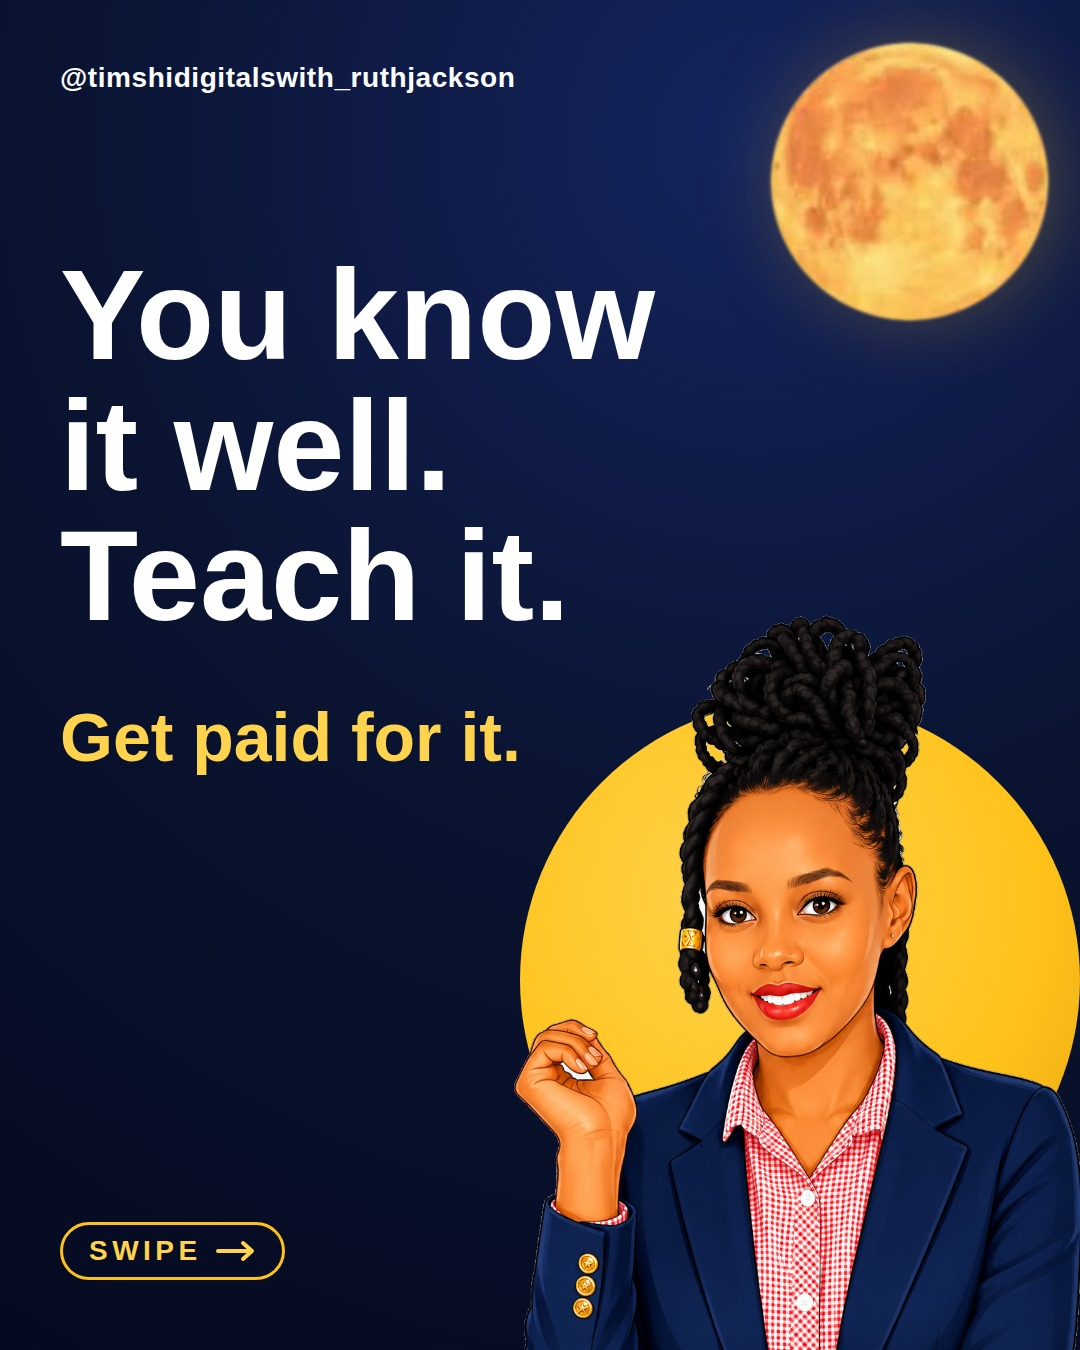
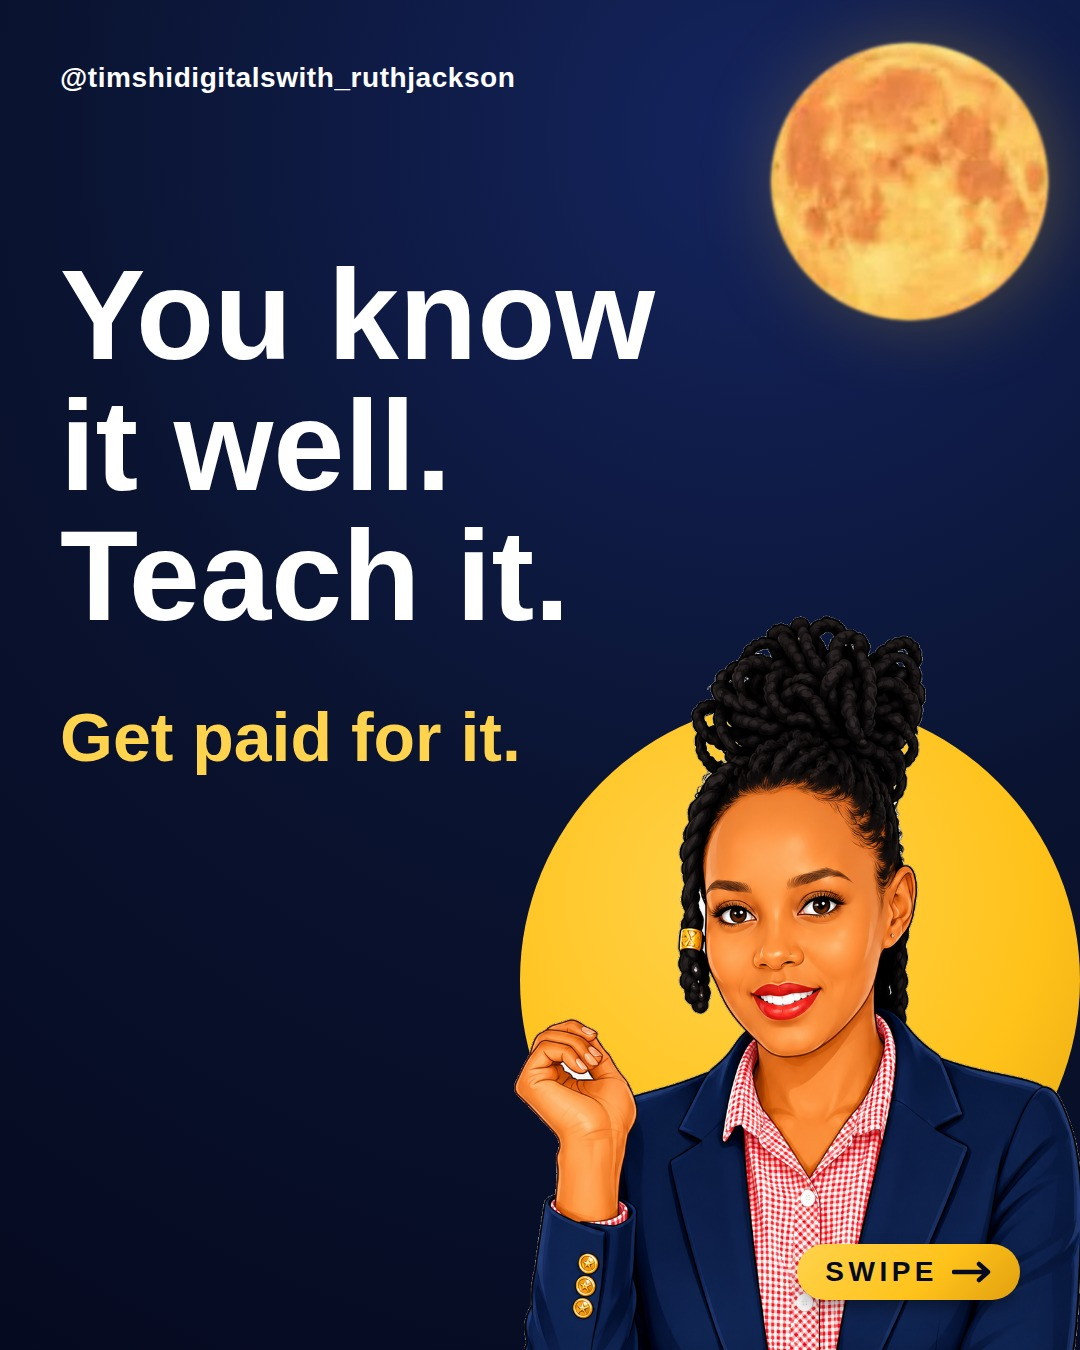
Cover swipe cue: gold-filled pill with navy arrow at bottom-right
Claude-Session: https://claude.ai/code/session_01BuedDNHZYcRoXDUMnpxN87

Changed region(s): [[0.7333, 0.9022, 0.9472, 0.9956], [0.0611, 0.9022, 0.275, 0.9644]]

diff --git a/social/carousel-kit/build.js b/social/carousel-kit/build.js
@@ -13,10 +13,11 @@ const base = `*{box-sizing:border-box;margin:0}body{width:1080px;height:1350px;p
 const moon = (size, top, right) => `<div class="abs" style="top:${top + size * .19}px;right:${right + size * .16}px;width:${size * .62}px;height:${size * .62}px;border-radius:50%;box-shadow:0 0 ${size * .3}px ${size * .13}px rgba(255,194,26,.35)"></div><img class="abs" src="${MOON}" style="top:${top}px;right:${right}px;width:${size}px;height:${size}px">`;
 const ruth = (w, left, top, disc) => `<div class="disc" style="width:${disc}px;height:${disc}px;left:${left + 40}px;top:${top + 90}px"></div><img class="abs" src="${PIC}" style="width:${w}px;left:${left}px;top:${top}px">`;
 const swipe = b => `<div class="abs" style="left:60px;bottom:${b}px;display:flex;align-items:center;gap:14px;border:3px solid #ffc21a;border-radius:40px;padding:10px 26px;font-size:28px;font-weight:800;letter-spacing:.16em;color:#ffd34d">SWIPE<svg width="40" height="22" viewBox="0 0 40 22"><path d="M2 11h34M27 3l9 8-9 8" stroke="#ffd34d" stroke-width="4" fill="none" stroke-linecap="round" stroke-linejoin="round"/></svg></div>`;
+const swipeGold = b => `<div class="abs" style="right:60px;bottom:${b}px;display:flex;align-items:center;gap:14px;background:linear-gradient(135deg,#ffd34d,#ffc21a 60%,#e0a010);border-radius:40px;padding:12px 28px;font-size:28px;font-weight:900;letter-spacing:.16em;color:#050a20;box-shadow:0 10px 24px -8px rgba(0,0,0,.6)">SWIPE<svg width="40" height="22" viewBox="0 0 40 22"><path d="M2 11h34M27 3l9 8-9 8" stroke="#050a20" stroke-width="4.5" fill="none" stroke-linecap="round" stroke-linejoin="round"/></svg></div>`;
 const swipeSm = () => `<div class="abs" style="right:60px;bottom:22px;display:flex;align-items:center;gap:10px;background:linear-gradient(135deg,#ffd34d,#ffc21a 60%,#e0a010);border-radius:30px;padding:7px 20px;font-size:20px;font-weight:900;letter-spacing:.14em;color:#050a20;box-shadow:0 8px 20px -8px rgba(255,194,26,.7)">SWIPE<svg width="28" height="16" viewBox="0 0 40 22"><path d="M2 11h34M27 3l9 8-9 8" stroke="#050a20" stroke-width="4.5" fill="none" stroke-linecap="round" stroke-linejoin="round"/></svg></div>`;
 const cover = () => `<style>${base}</style><div class="handle">${HANDLE}</div>${moon(290, 36, 26)}
 <div class="abs" style="top:250px;left:60px;width:700px;white-space:nowrap;font-size:128px;line-height:1.02;font-weight:900">${T.hook.join('<br>')}</div>
-<div class="abs g" style="top:700px;left:60px;width:520px;font-size:68px;line-height:1.1;font-weight:800">${T.gold}</div>${ruth(640, 480, 610, 560)}${swipe(70)}`;
+<div class="abs g" style="top:700px;left:60px;width:520px;font-size:68px;line-height:1.1;font-weight:800">${T.gold}</div>${ruth(640, 480, 610, 560)}${swipeGold(50)}`;
 const tip = i => { const [h, t] = T.tips[i]; return `<style>${base}</style><div class="handle">${HANDLE}</div>${moon(210, 40, 36)}
 <div class="abs" style="top:260px;left:60px;width:150px;height:150px;border-radius:50%;background:#ffc21a;color:#050a20;display:grid;place-items:center;font-size:88px;font-weight:800;box-shadow:0 14px 34px -10px rgba(255,194,26,.7)">${i + 1}</div>
 <div class="abs" style="top:450px;left:60px;width:640px;font-size:92px;line-height:1.04;font-weight:900">${h}</div>

diff --git a/social/carousel-kit/STYLE-GUIDE.md b/social/carousel-kit/STYLE-GUIDE.md
@@ -14,7 +14,7 @@ Build a 7-slide carousel, 1080x1350 JPG, for the topic: <TOPIC>. Use Ruth's desi
 - Slides 2 to 5 (tips): gold circle with the navy number, tip title in big white bold, explanation in bold gold addressed to the viewer ("you"), four small progress dots bottom-left.
 - Slide 6 (call to action): "You can learn this with Ruth." in white, the course name in gold, a green "WhatsApp" button (label only, no number), then small white lines for TikTok, Instagram, Facebook and coachruthjackson.com.
 - Slide 7 (engagement): "Enjoyed this?" in white and "Do these 3 things:" in gold, then three full-width navy cards. Card 1: Ruth's avatar, "Follow" and a gold "+ Follow" button with a tap cursor. Card 2: "Save for later" with an action bar (heart, comment, share) and a glowing gold bookmark being tapped. Card 3: "Share with a friend" with friend avatars and a gold send button. Handle and moon stay; with a small gold-filled "SWIPE →" pill (navy text and arrow) at the bottom-right.
-- Swipe cue: slides 1 to 6 have a small gold outlined "SWIPE →" pill at the bottom-left (above the progress dots on tip slides). Slide 7 has a smaller one.
+- Swipe cue: the cover has a gold-filled "SWIPE →" pill (navy text and arrow) at the bottom-right. Slides 2 to 6 keep the small gold outlined pill at the bottom-left (above the progress dots on tip slides). Slide 7 has a smaller gold-filled one.
 - Copy rules: short sentences, speak to the viewer as "you", no em-dashes, no made-up statistics, fake quotes or client names.
 - Always post the finished slides in the chat so Ruth can see them.
 
